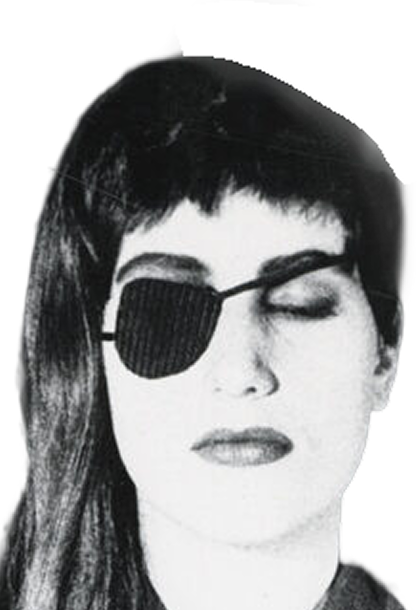
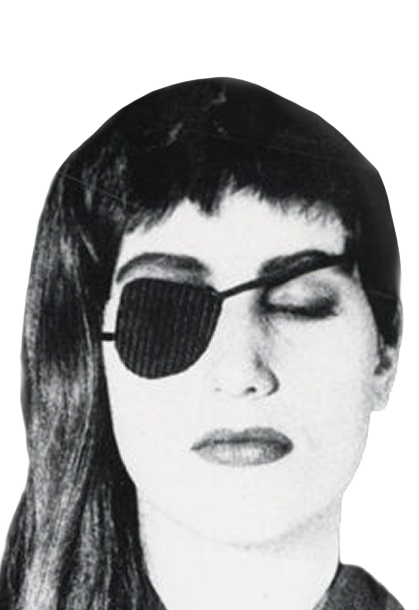
CSS dekstop + fixes to interactions

diff --git a/src/main.js b/src/main.js
@@ -105,11 +105,27 @@ document.querySelector("#app").innerHTML = `
   <h2 class="new-title">Always Something New</h2>
   <p class="about-text">Fashion is built on the promise of something new. Every season introduces new collections, new trends and new reasons to replace what already hangs in our wardrobes. Clothing has become faster to produce, faster to consume and easier to discard. We rarely stop to ask what happens to the garments left behind</p>
   <h3 class="new-question">What if fashion didn't begin with something new?</h3>
-  <h4 class="jacket-hint">Find the hidden value by clicking on jacket parts</h4>
   <div class="jacket-stage">
     <div class="jacket-wrap">
       <img class="jacket" src="${jacket}" alt="Jacket">
       <div class="jacket-hotspots"></div>
+    </div>
+    
+    <div class="hint-row">
+      <h4 class="jacket-hint">Find the flaws by clicking on jacket parts</h4>
+      <button class="hint-spot jacket-spot-hint" type="button" aria-label="Show where to click">
+        <svg class="spot-ring" viewBox="0 0 100 100" aria-hidden="true">
+          <defs>
+            <filter id="jacket-hint-ring-filter" x="-25%" y="-25%" width="150%" height="150%">
+              <feTurbulence type="fractalNoise" baseFrequency="0.05" numOctaves="2" seed="3" result="noise"/>
+              <feDisplacementMap in="SourceGraphic" in2="noise" scale="8"/>
+            </filter>
+          </defs>
+          <ellipse class="ring-main" cx="50" cy="50" rx="38" ry="42" transform="rotate(-12 50 50)" fill="none" stroke-width="6" stroke-linecap="round" stroke-dasharray="70 14 45 10 80 18" filter="url(#jacket-hint-ring-filter)"/>
+          <ellipse class="ring-ghost" cx="50" cy="50" rx="44" ry="41" transform="rotate(20 50 50)" fill="none" stroke-width="4" stroke-linecap="round" stroke-dasharray="50 25 85 12 60 20" opacity="0.5" filter="url(#jacket-hint-ring-filter)"/>
+        </svg>
+        <span class="spot-number">?</span>
+      </button>
     </div>
     <div class="jacket-reveals"></div>
   </div>
@@ -194,6 +210,24 @@ const prefersReducedMotion = window.matchMedia(
 ).matches;
 
 if (!prefersReducedMotion) {
+  const quote = document.querySelector(".quote");
+  const quoteWords = quote.textContent.trim().split(/\s+/);
+  quote.setAttribute("aria-label", quoteWords.join(" "));
+  quote.innerHTML = quoteWords
+    .map((word) => `<span class="quote-word" aria-hidden="true">${word}</span>`)
+    .join(" ");
+
+  gsap.from(".quote-word", {
+    x: -40,
+    opacity: 0,
+    duration: 0.7,
+    stagger: 0.12,
+    delay: 1,
+    ease: "power3.out",
+  });
+}
+
+if (!prefersReducedMotion) {
   const aboutSection = document.querySelector("#about");
   const aboutTitle = aboutSection.querySelector(".about-title");
   const aboutParagraphs = [...aboutSection.querySelectorAll(".about-text")];
@@ -270,6 +304,7 @@ const rings = [
 
 const hotspotLayer = document.querySelector(".jacket-hotspots");
 const reveals = document.querySelector(".jacket-reveals");
+const spotButtons = [];
 
 const stripes = [
   { seed: 31, scale: 4 },
@@ -324,16 +359,42 @@ spots.forEach((spot, i) => {
       </svg>
       <span class="spot-number">${spot.label}</span>
     </span>`;
+  const number = btn.querySelector(".spot-number");
+  spotButtons.push({ btn, number, label: String(spot.label) });
   btn.addEventListener("click", () => {
     if (btn.dataset.done) return;
     btn.dataset.done = "true";
     btn.classList.add("spot--active");
+    number.textContent = String(spot.label);
     reveals
       .querySelector(`[data-index="${i}"]`)
       .classList.add("reveal-line--shown");
   });
   hotspotLayer.appendChild(btn);
 });
+
+const HINT_DURATION = 2000;
+let hintTimer = null;
+const showHotspotHints = () => {
+  spotButtons.forEach(({ btn, number }) => {
+    if (btn.dataset.done) return;
+    btn.classList.add("spot--active");
+    number.textContent = "?";
+  });
+  clearTimeout(hintTimer);
+  hintTimer = setTimeout(() => {
+    spotButtons.forEach(({ btn, number, label }) => {
+      if (!btn.dataset.done) {
+        btn.classList.remove("spot--active");
+        number.textContent = label;
+      }
+    });
+  }, HINT_DURATION);
+};
+
+document
+  .querySelector(".jacket-spot-hint")
+  .addEventListener("click", showHotspotHints);
 
 const valueTexts = [
   "A trace of the garment's history. Every mark tells the story of how a piece was worn, lived in and valued before it found a new purpose.",

diff --git a/src/style.css b/src/style.css
@@ -24,6 +24,7 @@
   --main-blue: #436de2;
   --text: #08060d;
   --bg: #ebeaea;
+  --gutter: 16px;
 
   font:
     18px/145% system-ui,
@@ -69,7 +70,7 @@ html {
   display: flex;
   align-items: center;
   justify-content: space-between;
-  padding: 16px;
+  padding: var(--gutter);
   padding-top: 3rem;
   z-index: 2;
 }
@@ -195,7 +196,7 @@ html {
 
 .quote {
   margin: 0;
-  padding: 0 16px;
+  padding: 0 var(--gutter);
   font-family: "subway-berlin-sc", sans-serif;
   font-weight: 400;
   font-style: normal;
@@ -204,8 +205,12 @@ html {
   color: var(--main-red);
 }
 
+.quote-word {
+  display: inline-block;
+}
+
 .about {
-  padding: 16px;
+  padding: var(--gutter);
   margin-top: 3rem;
 }
 
@@ -250,9 +255,11 @@ html {
 .antwerp-banner {
   width: 100vw;
   max-width: none;
-  height: auto;
+  aspect-ratio: 1080 / 343;
+  object-fit: cover;
+  object-position: top;
   display: block;
-  margin-left: -16px;
+  margin-left: calc(-1 * var(--gutter));
   margin-top: 2rem;
 }
 
@@ -435,7 +442,7 @@ html {
 .value-section {
   position: relative;
   background: #333;
-  padding: 3rem 16px;
+  padding: 3rem var(--gutter);
   margin-top: calc(min(61.1vw, 297px) + 3rem);
   color: #fff;
 }
@@ -505,7 +512,7 @@ html {
 }
 
 .reconstruct-section {
-  padding: 16px;
+  padding: var(--gutter);
   margin-top: 3rem;
   color: var(--text);
 }
@@ -629,7 +636,7 @@ html {
 }
 
 .select-section {
-  padding: 16px;
+  padding: var(--gutter);
   margin-top: 3rem;
   color: var(--text);
 }
@@ -678,7 +685,7 @@ html {
 }
 
 .look-section {
-  padding: 16px;
+  padding: var(--gutter);
   margin-top: 3rem;
   color: var(--text);
 }
@@ -700,7 +707,7 @@ html {
   display: flex;
   align-items: center;
   gap: clamp(32px, 6vw, 80px);
-  padding: 4rem 0 0 16px;
+  padding: 4rem 0 0 var(--gutter);
 }
 
 .carousel-slide {
@@ -754,6 +761,10 @@ html {
 }
 
 @media (min-width: 1024px) {
+  :root {
+    --gutter: 4.3rem;
+  }
+
   .hero-bg {
     display: none;
   }
@@ -832,28 +843,54 @@ html {
     padding-top: 8rem;
   }
 
+  .new-question {
+    font-size: clamp(2rem, 5vw, 4rem);
+    padding-bottom: 4rem;
+  }
+
+  .jacket-hint {
+    font-size: clamp(1.5rem, 3.75vw, 3rem);
+  }
+
+  .about-jacket .new-question {
+    max-width: 56rem;
+    margin-inline: auto;
+  }
+
   .about-jacket .jacket-stage {
     display: grid;
     grid-template-columns: minmax(0, 1fr) minmax(0, 1fr);
+    grid-template-rows: auto 1fr;
     gap: clamp(2rem, 5vw, 5rem);
+    row-gap: 1.5rem;
     align-items: start;
   }
 
   .about-jacket .jacket-stage .jacket-wrap {
     grid-column: 1;
-    grid-row: 1;
+    grid-row: 1 / span 2;
     justify-self: end;
     margin: 0;
   }
 
-  .about-jacket .jacket-stage .jacket-reveals {
+  .about-jacket .jacket-stage .hint-row {
     grid-column: 2;
     grid-row: 1;
     justify-self: start;
+    margin-top: 0;
+    padding-top: 2rem;
+  }
+
+  .about-jacket .jacket-stage .jacket-reveals {
+    grid-column: 2;
+    grid-row: 2;
+    justify-self: start;
     margin: 0;
+    padding-top: 2rem;
   }
 
   .about-antwerp {
+    --antwerp-overlap-gap: clamp(2.5rem, 5vw, 4rem);
     position: relative;
     display: flex;
     flex-direction: column;
@@ -861,8 +898,9 @@ html {
 
   .antwerp-title {
     position: absolute;
-    top: 1.5rem;
+    top: calc(var(--gutter) + var(--antwerp-overlap-gap));
     left: 1.5rem;
+    transform: translateY(-50%);
     z-index: 2;
     margin: 0;
     font-family: "subway-berlin-sc", sans-serif;
@@ -875,19 +913,25 @@ html {
 
   .antwerp-hero {
     order: 1;
+    margin-top: var(--antwerp-overlap-gap);
+  }
+
+  .about-antwerp .antwerp-banner {
+    margin-top: 0;
   }
 
   .antwerp-year {
     display: inline-block;
     position: absolute;
-    top: 1.5rem;
+    top: 0;
     right: 1.5rem;
+    transform: translateY(-50%);
     z-index: 2;
     font-family: "subway-berlin-sc", sans-serif;
     font-weight: 400;
     font-style: normal;
     font-size: clamp(3rem, 6vw, 6rem);
-    line-height: 95%;
+    line-height: 0.9;
     color: #436de1;
   }
 
